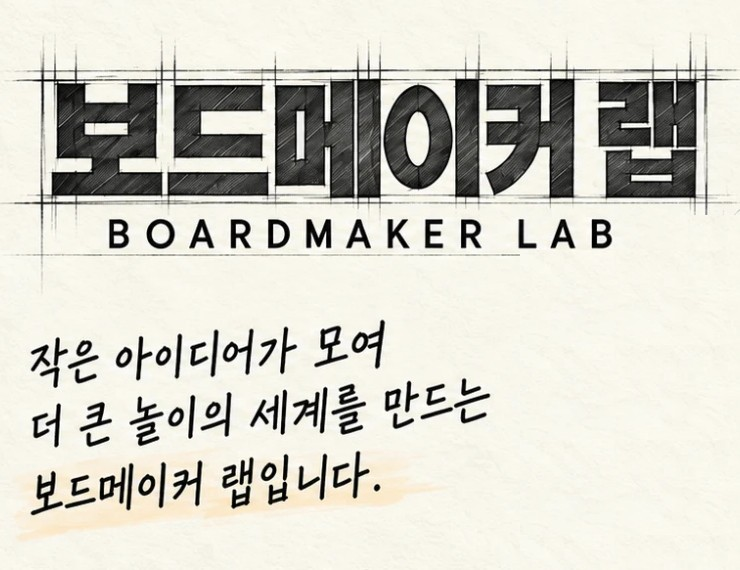
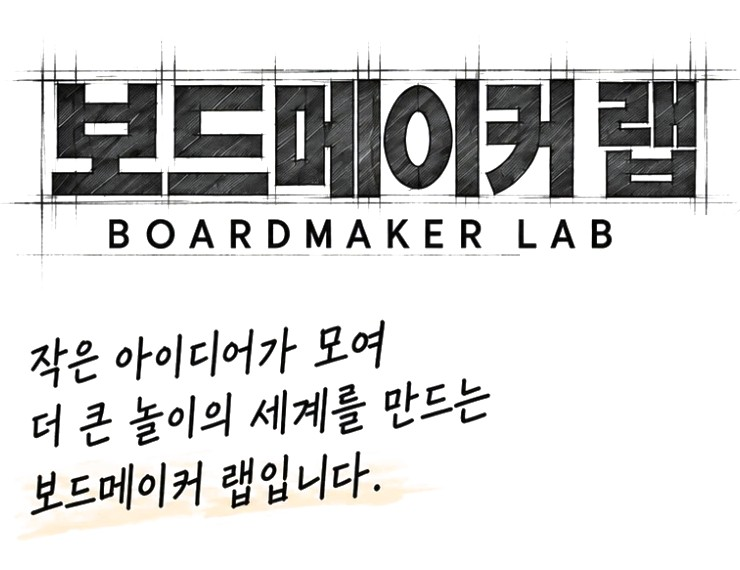
브랜드 그림 흰 배경으로, 본문 폭에 맞춤

diff --git a/보기/theme.css b/보기/theme.css
@@ -10,8 +10,8 @@ body{margin:0;background:var(--bg);color:var(--ink);font:16px/1.75 "Noto Sans KR
 /* 머리: 표지 슬라이드처럼 — 짧은 남보라 선, 큰 제목, 남보라 부제 */
 header{text-align:center;padding:44px 20px 26px}
 header .brand{display:block;height:58px;width:auto;margin:0 auto 24px}
-.banner{display:block;max-width:860px;margin:14px auto 26px}
-.banner img{display:block;width:100%;height:auto;border-radius:12px;box-shadow:0 2px 12px #2a2a3a14}
+.banner{display:block;margin:14px 0 26px}
+.banner img{display:block;width:100%;height:auto}
 /* 맨 아래 브랜드 */
 /* 맨 아래: 엠블럼·이름·소개를 가운데로 쌓고, 체험 장소 버튼도 가운데 */
 footer{display:flex;flex-direction:column;align-items:center;text-align:center;gap:14px;padding:44px 20px 56px;border-top:1px solid var(--line);background:#f6f3ec}
@@ -25,7 +25,7 @@ footer .play b{color:#e07a1f;font-weight:900}
 footer .play span{color:var(--sub);font-size:14px;font-weight:600}
 a.play:hover{border-color:#e07a1f;box-shadow:0 2px 10px #e07a1f22}
 @media(max-width:720px){footer .play{flex-direction:column;gap:2px;border-radius:14px}}
-@media(max-width:720px){header .brand{height:42px;margin-bottom:18px}.banner{margin:10px auto 20px}.banner img{border-radius:10px}footer img{width:56px;height:56px}}
+@media(max-width:720px){header .brand{height:42px;margin-bottom:18px}.banner{margin:10px 0 20px}footer img{width:56px;height:56px}}
 header h1{margin:0;font-size:44px;font-weight:900;letter-spacing:-1px;line-height:1.25}
 header h1 small{display:block;font-size:14px;font-weight:800;color:var(--indigo);letter-spacing:1px;margin-bottom:8px}
 /* 머리 태그: 버튼처럼 보이지 않게 — 점으로 나눈 글자만 */

diff --git a/index.html b/index.html
@@ -3,8 +3,8 @@
 <title>보드메이커 랩 · 사업 프로세스 콘티</title>
 <link rel="preconnect" href="https://fonts.googleapis.com"><link rel="preconnect" href="https://fonts.gstatic.com" crossorigin>
 <link rel="stylesheet" href="https://fonts.googleapis.com/css2?family=Noto+Sans+KR:wght@400;600;700;800;900&display=swap">
-<link rel="stylesheet" href="보기/theme.css?v=mviu1si9">
+<link rel="stylesheet" href="보기/theme.css?v=mviu3143">
 </head><body>
-<script src="콘티.js?v=mviu1si9"></script>
-<script src="보기/proc.js?v=mviu1si9"></script>
+<script src="콘티.js?v=mviu3143"></script>
+<script src="보기/proc.js?v=mviu3143"></script>
 </body></html>
